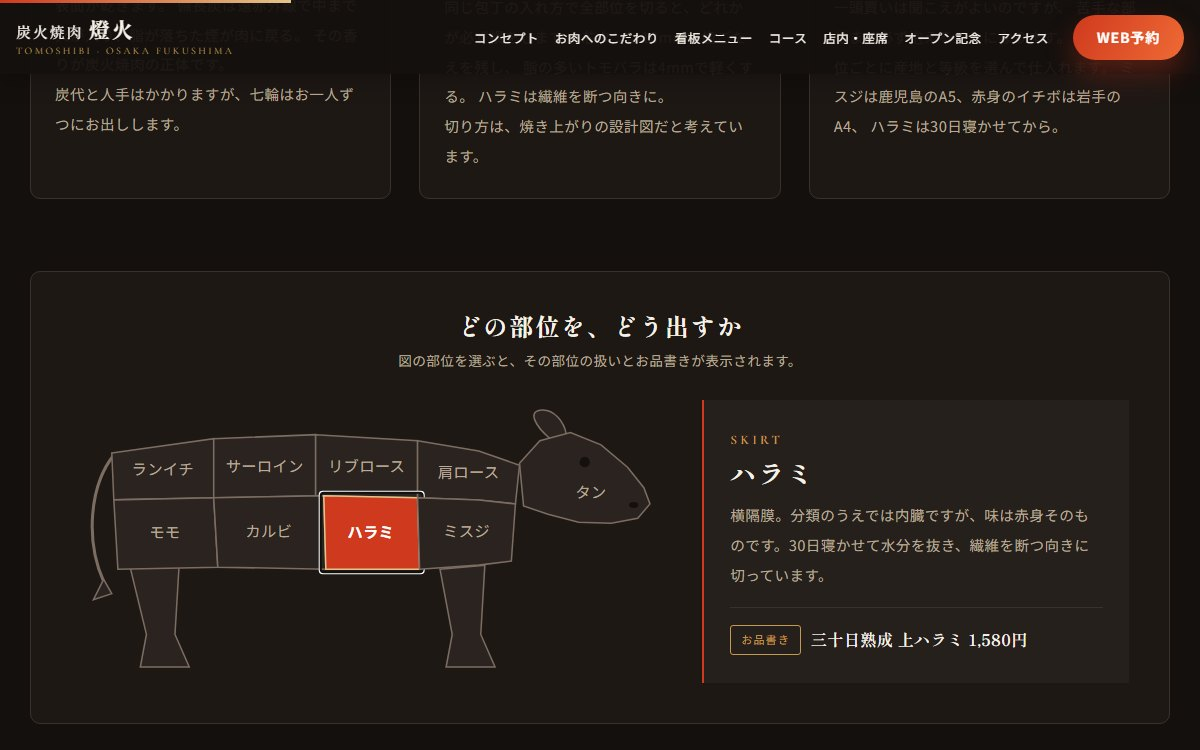
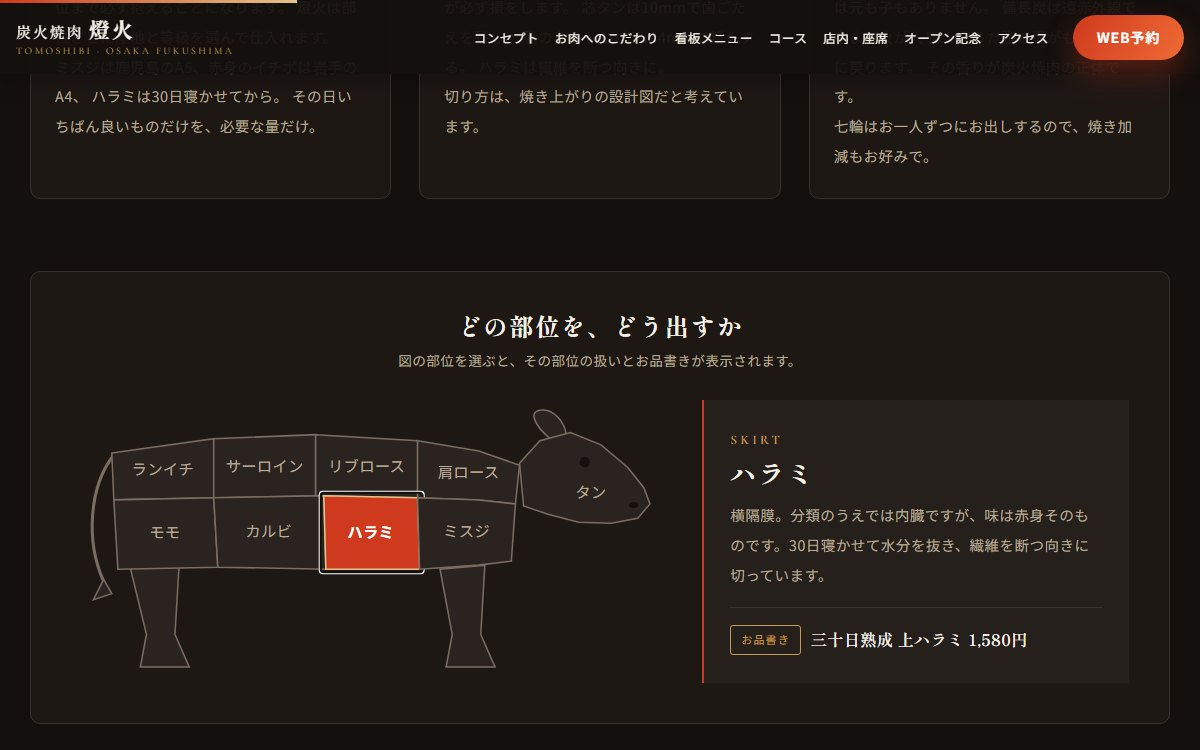
燈火の掲載内容を、肉の訴求に軸を戻した版に更新
- FVの見出し変更にあわせてスクリーンショット3点を撮り直し
- 詳細ページに「差別化は、肉そのもので言う」「想定ターゲットに無いものは、載せない」を追記。
  設備の話を前に出しすぎていたことと、ひとり客を載せていたことを、直した経緯として書いた
- 一覧カードの説明文を産地・切り方の訴求に差し替え

Changed region(s): [[0.6783, 0.1227, 0.9558, 0.2147], [0.37, 0.1227, 0.6167, 0.2147], [0.0308, 0.1227, 0.3083, 0.184]]

diff --git a/works/tomoshibi.html b/works/tomoshibi.html
@@ -54,8 +54,8 @@
   <div class="l-container">
 
     <figure class="work-shot">
-      <img src="../assets/img/works/tomoshibi-1.jpg" alt="炭火焼肉 燈火のファーストビュー。炭火の網の上の和牛を背景に「一人に一台、七輪を。」の見出しと予約入力欄" width="1200" height="750" loading="lazy" decoding="async">
-      <figcaption>ファーストビュー。差別化点を見出しで言い切り、その下に日付・時間・人数の入力欄を直接置いています。</figcaption>
+      <img src="../assets/img/works/tomoshibi-1.jpg" alt="炭火焼肉 燈火のファーストビュー。炭火の網の上の和牛を背景に「部位ごとに、産地を選ぶ。」の見出しと予約入力欄" width="1200" height="750" loading="lazy" decoding="async">
+      <figcaption>ファーストビュー。肉の質を見出しで言い切り、その下に日付・時間・人数の入力欄を直接置いています。</figcaption>
     </figure>
 
     <div class="work-shots">
@@ -83,9 +83,14 @@
       <p>飲食店のページで効くのは、普通なら口コミの点数、行列の写真、常連さんの声です。ところがオープン前の店にはそのどれも存在しません。開店してから集めるものなので、いちばん集客したい時期にいちばん武器が無い状態になります。</p>
       <p>そこで、信頼してもらう材料を<strong>具体の細かさ</strong>に置き換えました。「美味しい」ではなく「根元の芯タンだけを10mmに厚切り」「脂の多いトモバラは筋を外して4mm」「ハラミは30日寝かせてから繊維を断つ向きに切る」。食べたことがなくても、この店が何を考えているかは判断できます。</p>
 
-      <h3>差別化は、覚えて帰れる一言にした</h3>
-      <p>近隣の焼肉店と比べられる前提なので、何が違うのかを一度で覚えてもらえないと勝負になりません。「一人に一台、七輪を。」を見出しに据え、それ以降のセクションはすべてこの一言の裏付けとして並べています。</p>
-      <p>焼き手を誰かに任せなくていい、焼けた肉を横から取られない、ひとりで来ても成立する。設備の話ではなく<strong>体験がどう変わるか</strong>として書きました。</p>
+      <h3>差別化は、肉そのもので言う</h3>
+      <p>最初に作ったときは「一人に一台、七輪を。」を見出しに据えていました。設備としては珍しく、覚えてもらいやすい一言です。ところが読み返すと、ページの最前面に来ているのが備長炭と七輪の話で、肝心の肉が後ろに回っていました。</p>
+      <p>想定しているのは「美味しいお肉が好きな方」です。その人に向けて設備の話から始めるのは順番が違うと考え、見出しを<strong>「部位ごとに、産地を選ぶ。」</strong>に差し替えました。一頭買いをしないという逆張りを入口にして、ミスジは鹿児島のA5、赤身のイチボは岩手のA4、ハラミは30日といった具体で押しています。</p>
+      <p>こだわりの3本柱も「備長炭 → 切り方 → 部位買い」から<strong>「部位買い → 切り方 → 備長炭」</strong>に並べ替えました。炭火は最後の仕上げであって、話の入口ではありません。七輪は設備欄と3つ目のカードに残しています。</p>
+
+      <h3>想定ターゲットに無いものは、載せない</h3>
+      <p>利用シーンの4枚目に「ひとりで、軽く」を置いていましたが、想定ターゲットは友人・カップルでの食事と、会社の飲み会・宴会の幹事です。ひとり客は含まれていません。</p>
+      <p>七輪が一人一台という設備から発想して、そこから使い方をひねり出していたのが原因でした。<strong>作れる機能の側から考えると、狙っていない客層に枠を1つ使ってしまう</strong>。「接待・取引先との会食」に差し替え、個室と極コースへの導線にしています。</p>
 
       <h3>牛の部位図をSVGで描いた</h3>
       <p>「部位ごとに切り方を変える」という主張を文章だけで置くと通り過ぎられるので、牛のイラストを作り、9つの部位を選べるようにしました。画像を貼ったのではなく図形として描いているため、拡大しても輪郭が崩れず、配色もサイトのCSS変数から変えられます。</p>

diff --git a/index.html b/index.html
@@ -288,7 +288,7 @@
             <p class="work__genre">焼肉店（新規オープン）</p>
             <h3 class="work__title"><a class="work__title-link" href="works/tomoshibi.html">炭火焼肉 燈火</a></h3>
             <p class="work__desc">
-              口コミも実績もまだ無い開店前の店の集客ページ。牛の部位図をSVGで描き、宴会の見積もりに特典の条件まで反映しました。
+              口コミも実績もまだ無い開店前の店の集客ページ。産地と切り方で肉の質を押し出し、牛の部位図をSVGで描きました。
             </p>
             <ul class="work__tags">
               <li>HTML/CSS</li><li>JavaScript</li><li>SVG</li><li>シミュレーター</li>
